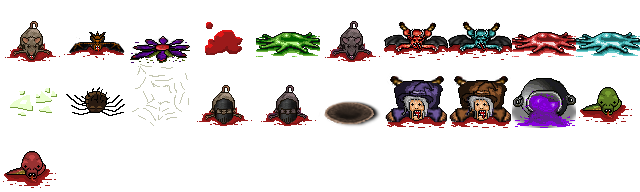
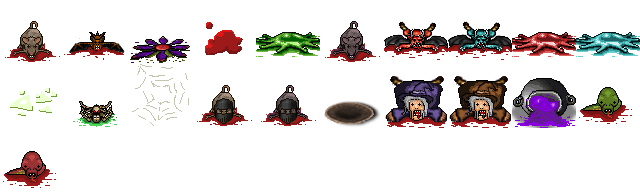
ADD New art for spiders (little)

Changed region(s): [[0.0938, 0.4688, 0.1875, 0.6562]]

diff --git a/src/LittleSpiderEntity.cpp b/src/LittleSpiderEntity.cpp
@@ -27,6 +27,8 @@ LittleSpiderEntity::LittleSpiderEntity(float x, float y)
   timer = (rand() % 50) / 10.0f;
   age = 0.0f;
   frame = 8;
+
+  sprite.setOrigin(32.0f, 40.0f);
 }
 
 void LittleSpiderEntity::animate(float delay)
@@ -45,15 +47,15 @@ void LittleSpiderEntity::animate(float delay)
   }
 
   EnemyEntity::animate(delay);
-  z = y + 25;
+  z = y + 21;
 }
 
 void LittleSpiderEntity::calculateBB()
 {
-    boundingBox.left = (int)x - 20;
-    boundingBox.width = 40;
+    boundingBox.left = (int)x - 18;
+    boundingBox.width = 36;
     boundingBox.top = (int)y - 10;
-    boundingBox.height =  35;
+    boundingBox.height =  32;
 }
 
 void LittleSpiderEntity::collideMapRight()
